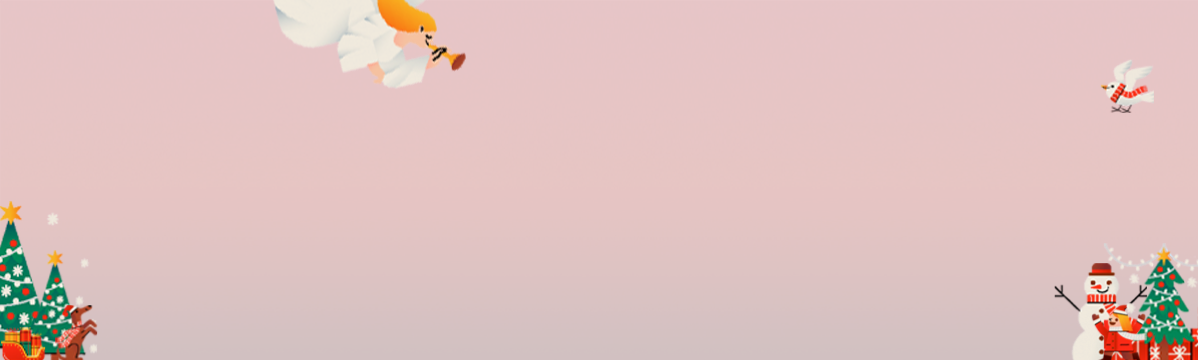
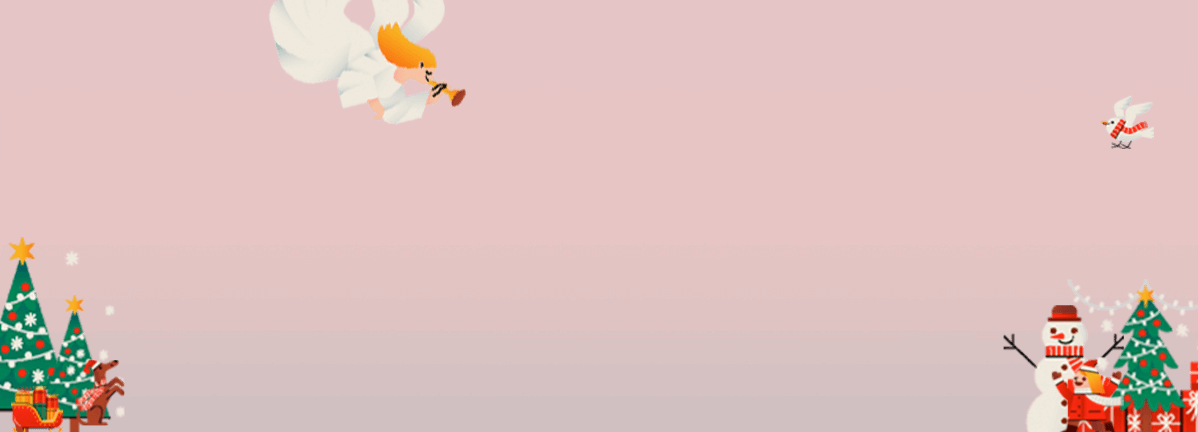
fix: mf-3007 add gradient to decoration image

diff --git a/packages/mask/src/plugins/Trader/SNSAdaptor/trending/TrendingView.tsx b/packages/mask/src/plugins/Trader/SNSAdaptor/trending/TrendingView.tsx
@@ -1,23 +1,25 @@
 import { useIsMinimalMode } from '@masknet/plugin-infra/content-script'
+import { DataProvider } from '@masknet/public-api'
+import { NFTList, xmasBackground } from '@masknet/shared'
+import { EMPTY_LIST, getSiteType, NetworkPluginID, PluginID } from '@masknet/shared-base'
+import { useValueRef } from '@masknet/shared-base-ui'
+import { ActionButton, makeStyles, MaskLightTheme, MaskTabList, useTabs } from '@masknet/theme'
 import {
     useChainContext,
     useChainIdValid,
     useNonFungibleAssetsByCollection,
     Web3ContextProvider,
 } from '@masknet/web3-hooks-base'
-import type { AsyncState } from 'react-use/lib/useAsyncFn.js'
-import { DataProvider } from '@masknet/public-api'
-import { NFTList } from '@masknet/shared'
-import { EMPTY_LIST, PluginID, NetworkPluginID, getSiteType } from '@masknet/shared-base'
-import { ActionButton, makeStyles, MaskLightTheme, MaskTabList, useTabs } from '@masknet/theme'
 import { TrendingAPI } from '@masknet/web3-providers'
 import { createFungibleToken, TokenType } from '@masknet/web3-shared-base'
-import { isNativeTokenAddress, isNativeTokenSymbol, SchemaType, ChainId } from '@masknet/web3-shared-evm'
+import { ChainId, isNativeTokenAddress, isNativeTokenSymbol, SchemaType } from '@masknet/web3-shared-evm'
 import { TabContext } from '@mui/lab'
 import { Link, Stack, Tab, ThemeProvider } from '@mui/material'
 import { Box, useTheme } from '@mui/system'
 import { compact } from 'lodash-es'
 import { useEffect, useMemo, useState } from 'react'
+import type { AsyncState } from 'react-use/lib/useAsyncFn.js'
+import { pluginIDSettings } from '../../../../../shared/legacy-settings/settings.js'
 import { useI18N } from '../../../../utils/index.js'
 import { resolveDataProviderLink, resolveDataProviderName } from '../../pipes.js'
 import { setStorage } from '../../storage/index.js'
@@ -35,8 +37,6 @@ import { TickersTable } from './TickersTable.js'
 import { TrendingViewDeck } from './TrendingViewDeck.js'
 import { TrendingViewError } from './TrendingViewError.js'
 import { TrendingViewSkeleton } from './TrendingViewSkeleton.js'
-import { useValueRef } from '@masknet/shared-base-ui'
-import { pluginIDSettings } from '../../../../../shared/legacy-settings/settings.js'
 
 const useStyles = makeStyles<{
     isPopper: boolean
@@ -92,6 +92,10 @@ const useStyles = makeStyles<{
 
         cardHeader: {
             marginBottom: '-36px',
+            backgroundImage: `linear-gradient(180deg, rgba(255, 255, 255, 0) 0%, rgba(255, 255, 255, 0.8) 100%), url(${xmasBackground})`,
+            backgroundColor: 'white',
+            backgroundSize: 'cover',
+            backgroundPosition: 'center right',
         },
         nftItems: {
             height: 530,

diff --git a/packages/mask/src/plugins/Trader/SNSAdaptor/trending/TrendingViewSkeleton.tsx b/packages/mask/src/plugins/Trader/SNSAdaptor/trending/TrendingViewSkeleton.tsx
@@ -1,3 +1,4 @@
+import { xmasBackground } from '@masknet/shared'
 import { LoadingBase, makeStyles, useStylesExtends } from '@masknet/theme'
 import { CardContent, Stack, Typography } from '@mui/material'
 import { useI18N } from '../../../../utils/index.js'
@@ -7,7 +8,10 @@ import { TrendingCard, TrendingCardProps } from './TrendingCard.js'
 const useStyles = makeStyles()((theme) => ({
     root: {
         padding: theme.spacing(2),
-        background: theme.palette.maskColor.modalTitleBg,
+        backgroundImage: `linear-gradient(180deg, rgba(255, 255, 255, 0) 0%, rgba(255, 255, 255, 0.8) 100%), url(${xmasBackground})`,
+        backgroundColor: 'white',
+        backgroundSize: 'cover',
+        backgroundPosition: 'center bottom',
     },
     content: {
         height: 162,

diff --git a/packages/mask/src/components/InjectedComponents/ProfileCard/index.tsx b/packages/mask/src/components/InjectedComponents/ProfileCard/index.tsx
@@ -40,7 +40,7 @@ const useStyles = makeStyles()((theme) => {
             justifyContent: 'center',
         },
         header: {
-            backgroundImage: `url(${xmasBackgroundMini} )`,
+            backgroundImage: `linear-gradient(180deg, rgba(255, 255, 255, 0) 0%, rgba(255, 255, 255, 0.9) 100%), url(${xmasBackgroundMini} )`,
             backgroundSize: 'cover',
             backgroundPosition: 'center bottom',
             padding: theme.spacing(2, 2, 0, 2),

diff --git a/packages/mask/src/components/InjectedComponents/ProfileTabContent.tsx b/packages/mask/src/components/InjectedComponents/ProfileTabContent.tsx
@@ -38,7 +38,7 @@ const useStyles = makeStyles()((theme) => ({
         width: isFacebook(activatedSocialNetworkUI) ? 876 : 'auto',
     },
     container: {
-        backgroundImage: `url(${xmasBackgroundShort})`,
+        backgroundImage: `linear-gradient(180deg, rgba(255, 255, 255, 0) 0%, rgba(255, 255, 255, 0.8) 100%), url(${xmasBackgroundShort})`,
         backgroundColor: 'white',
         backgroundSize: 'cover',
         backgroundPosition: 'center bottom',

diff --git a/packages/shared/src/UI/components/PluginCardFrame/index.tsx b/packages/shared/src/UI/components/PluginCardFrame/index.tsx
@@ -12,7 +12,7 @@ const useStyles = makeStyles()((theme) => ({
         justifyContent: 'center',
     },
     container: {
-        backgroundImage: `url(${xmasBackground})`,
+        backgroundImage: `linear-gradient(180deg, rgba(255, 255, 255, 0) 0%, rgba(255, 255, 255, 0.8) 100%), url(${xmasBackground})`,
         backgroundColor: 'white',
         backgroundSize: 'cover',
         backgroundPosition: 'center bottom',

diff --git a/packages/plugins/DecentralizedSearch/src/SNSAdaptor/SearchResultInspector.tsx b/packages/plugins/DecentralizedSearch/src/SNSAdaptor/SearchResultInspector.tsx
@@ -31,7 +31,7 @@ const useStyles = makeStyles()((theme) => ({
         overflow: 'auto',
     },
     cardHeader: {
-        backgroundImage: `url(${xmasBackground})`,
+        backgroundImage: `linear-gradient(180deg, rgba(255, 255, 255, 0) 0%, rgba(255, 255, 255, 0.8) 100%), url(${xmasBackground})`,
         backgroundColor: 'white',
         backgroundSize: 'cover',
         backgroundPosition: 'center bottom',
